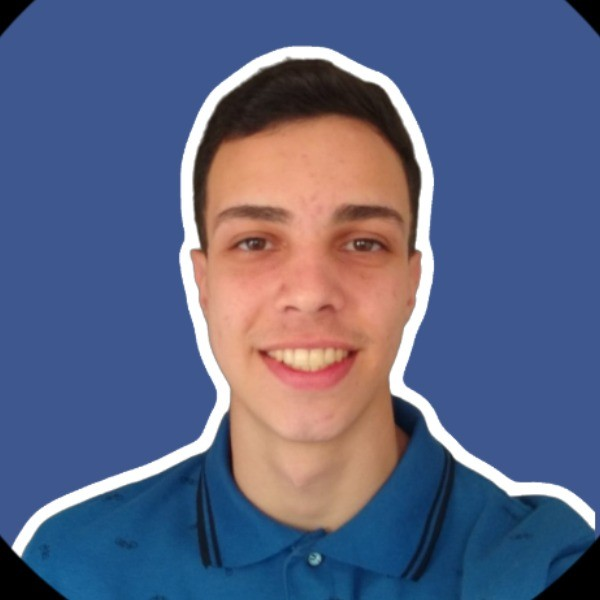
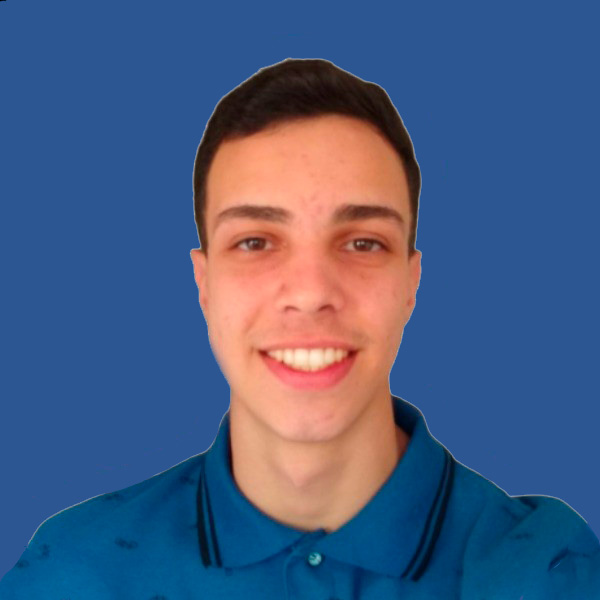
Fotos

diff --git a/src/pages/Sobre/Sobre.tsx b/src/pages/Sobre/Sobre.tsx
@@ -63,7 +63,7 @@ function Sobre() {
           </div>
 
           <div className='max-w-80 shadow rounded-xl overflow-hidden'>
-            <img className='max-w-full h-96 object-cover' src={lucas} alt="" />
+            <img className='h-96 object-cover rounded-t-xl' src={lucas} alt="" />
             <h3 className='px-3 pt-2 pb-1 font-bold text-xl'>Lucas Barbosa</h3>
             <ul className='px-3 pb-3'>
               <li>✓ 20 anos</li>
